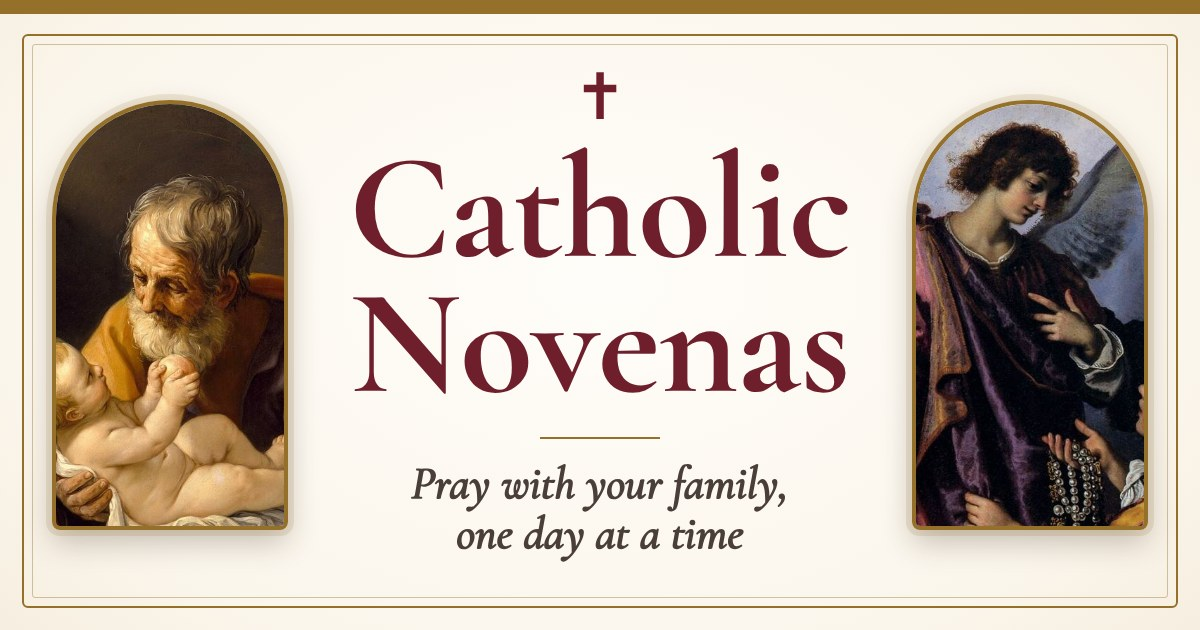
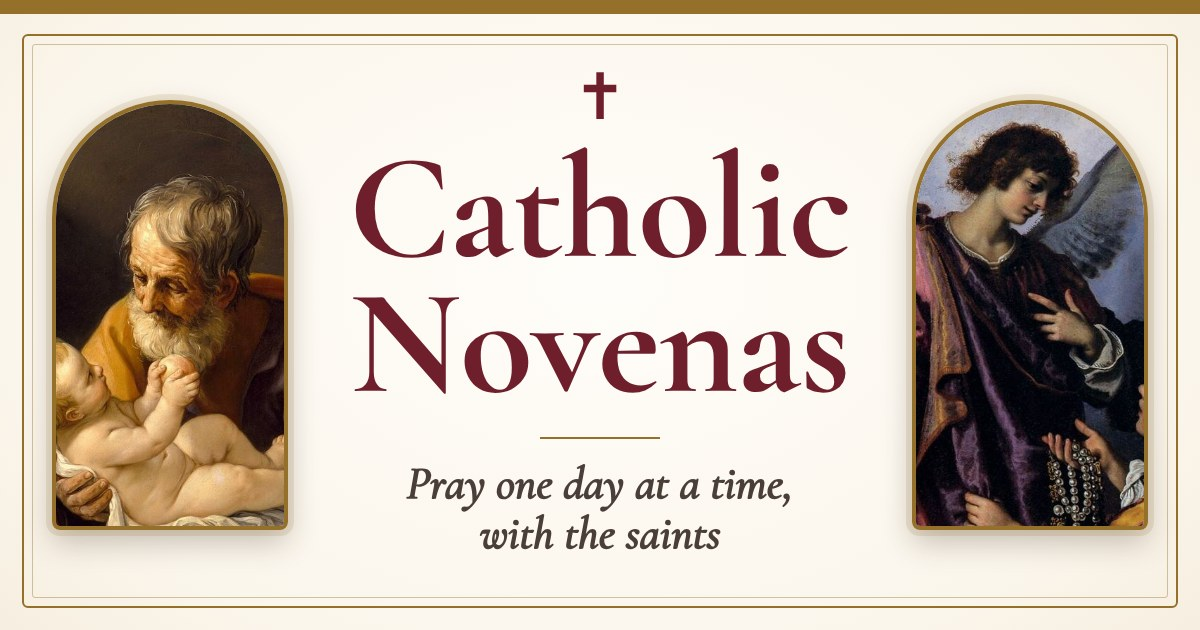
General wording: no family framing in site copy and link previews; link descriptions under 125 characters

Changed region(s): [[0.3392, 0.7238, 0.6783, 0.8746]]

diff --git a/site/index.html b/site/index.html
@@ -3,18 +3,18 @@
 <head>
 <meta charset="utf-8">
 <meta name="viewport" content="width=device-width, initial-scale=1, viewport-fit=cover">
-<title>Catholic Novenas: 9-day prayers for family and friends</title>
+<title>Catholic Novenas: 9 days of prayer, one day at a time</title>
 <meta name="apple-mobile-web-app-title" content="Catholic Novenas">
-<meta name="description" content="9-day Catholic novenas to pray with your family, one day at a time, with Scripture, reflections and the prayers of the saints.">
+<meta name="description" content="9-day Catholic novenas with Scripture, reflections and the prayers of the saints, on your phone or on paper.">
 <meta name="theme-color" content="#FFFDF9" media="(prefers-color-scheme: light)">
 <meta name="theme-color" content="#0E1524" media="(prefers-color-scheme: dark)">
 <meta property="og:type" content="website">
 <meta property="og:site_name" content="Catholic Novenas">
 <meta property="og:url" content="https://catholic-novenas.netlify.app/">
-<meta property="og:title" content="Catholic Novenas: 9-day prayers for family and friends">
-<meta property="og:description" content="9-day Catholic novenas to pray with your family, one day at a time, on your phone or on paper, with Scripture, reflections and the prayers of the saints.">
-<meta property="og:image" content="https://catholic-novenas.netlify.app/og.jpg?v=0d8bbcfd">
-<meta property="og:image:alt" content="Catholic Novenas: pray with your family, one day at a time">
+<meta property="og:title" content="Catholic Novenas: 9 days of prayer, one day at a time">
+<meta property="og:description" content="9-day Catholic novenas with Scripture, reflections and the prayers of the saints, on your phone or on paper.">
+<meta property="og:image" content="https://catholic-novenas.netlify.app/og.jpg?v=a8577d62">
+<meta property="og:image:alt" content="Catholic Novenas: pray one day at a time, with the saints">
 <meta property="og:image:type" content="image/jpeg">
 <meta property="og:image:width" content="1200"><meta property="og:image:height" content="630">
 <meta name="twitter:card" content="summary_large_image">
@@ -136,7 +136,7 @@ footer.wrap{text-align:center;padding-top:28px;padding-bottom:calc(88px + env(sa
 </style>
 </head>
 <body>
-<svg xmlns="http://www.w3.org/2000/svg" style="display:none" aria-hidden="true"><symbol id="i-cross" viewBox="0 0 256 256"><path d="M200,72H160V32a16,16,0,0,0-16-16H112A16,16,0,0,0,96,32V72H56A16,16,0,0,0,40,88v32a16,16,0,0,0,16,16H96v88a16,16,0,0,0,16,16h32a16,16,0,0,0,16-16V136h40a16,16,0,0,0,16-16V88A16,16,0,0,0,200,72Zm0,48H152a8,8,0,0,0-8,8v96H112V128a8,8,0,0,0-8-8H56V88h48a8,8,0,0,0,8-8V32h32V80a8,8,0,0,0,8,8h48Z"/></symbol><symbol id="i-sun" viewBox="0 0 256 256"><path d="M120,40V16a8,8,0,0,1,16,0V40a8,8,0,0,1-16,0Zm72,88a64,64,0,1,1-64-64A64.07,64.07,0,0,1,192,128Zm-16,0a48,48,0,1,0-48,48A48.05,48.05,0,0,0,176,128ZM58.34,69.66A8,8,0,0,0,69.66,58.34l-16-16A8,8,0,0,0,42.34,53.66Zm0,116.68-16,16a8,8,0,0,0,11.32,11.32l16-16a8,8,0,0,0-11.32-11.32ZM192,72a8,8,0,0,0,5.66-2.34l16-16a8,8,0,0,0-11.32-11.32l-16,16A8,8,0,0,0,192,72Zm5.66,114.34a8,8,0,0,0-11.32,11.32l16,16a8,8,0,0,0,11.32-11.32ZM48,128a8,8,0,0,0-8-8H16a8,8,0,0,0,0,16H40A8,8,0,0,0,48,128Zm80,80a8,8,0,0,0-8,8v24a8,8,0,0,0,16,0V216A8,8,0,0,0,128,208Zm112-88H216a8,8,0,0,0,0,16h24a8,8,0,0,0,0-16Z"/></symbol><symbol id="i-moon" viewBox="0 0 256 256"><path d="M233.54,142.23a8,8,0,0,0-8-2,88.08,88.08,0,0,1-109.8-109.8,8,8,0,0,0-10-10,104.84,104.84,0,0,0-52.91,37A104,104,0,0,0,136,224a103.09,103.09,0,0,0,62.52-20.88,104.84,104.84,0,0,0,37-52.91A8,8,0,0,0,233.54,142.23ZM188.9,190.34A88,88,0,0,1,65.66,67.11a89,89,0,0,1,31.4-26A106,106,0,0,0,96,56,104.11,104.11,0,0,0,200,160a106,106,0,0,0,14.92-1.06A89,89,0,0,1,188.9,190.34Z"/></symbol><symbol id="i-text-aa" viewBox="0 0 256 256"><path d="M87.24,52.59a8,8,0,0,0-14.48,0l-64,136a8,8,0,1,0,14.48,6.81L39.9,160h80.2l16.66,35.4a8,8,0,1,0,14.48-6.81ZM47.43,144,80,74.79,112.57,144ZM200,96c-12.76,0-22.73,3.47-29.63,10.32a8,8,0,0,0,11.26,11.36c3.8-3.77,10-5.68,18.37-5.68,13.23,0,24,9,24,20v3.22A42.76,42.76,0,0,0,200,128c-22.06,0-40,16.15-40,36s17.94,36,40,36a42.73,42.73,0,0,0,24-7.25,8,8,0,0,0,16-.75V132C240,112.15,222.06,96,200,96Zm0,88c-13.23,0-24-9-24-20s10.77-20,24-20,24,9,24,20S213.23,184,200,184Z"/></symbol><symbol id="i-arrow-right" viewBox="0 0 256 256"><path d="M221.66,133.66l-72,72a8,8,0,0,1-11.32-11.32L196.69,136H40a8,8,0,0,1,0-16H196.69L138.34,61.66a8,8,0,0,1,11.32-11.32l72,72A8,8,0,0,1,221.66,133.66Z"/></symbol><symbol id="i-hands-praying" viewBox="0 0 256 256"><path d="M235.32,180l-36.24-36.25L162.62,23.46A21.76,21.76,0,0,0,128,12.93,21.76,21.76,0,0,0,93.38,23.46L56.92,143.76,20.68,180a16,16,0,0,0,0,22.62l32.69,32.69a16,16,0,0,0,22.63,0L124.28,187a40.68,40.68,0,0,0,3.72-4.29,40.68,40.68,0,0,0,3.72,4.29L180,235.32a16,16,0,0,0,22.63,0l32.69-32.69A16,16,0,0,0,235.32,180ZM64.68,224,32,191.32l12.69-12.69,32.69,32.69ZM120,158.75a23.85,23.85,0,0,1-7,17L88.68,200,56,167.32l13.65-13.66a8,8,0,0,0,2-3.34l37-122.22A5.78,5.78,0,0,1,120,29.78Zm23,17a23.85,23.85,0,0,1-7-17v-129a5.78,5.78,0,0,1,11.31-1.68l37,122.22a8,8,0,0,0,2,3.34l14.49,14.49-33.4,32ZM191.32,224l-12.56-12.57,33.39-32L224,191.32Z"/></symbol><symbol id="i-calendar-check" viewBox="0 0 256 256"><path d="M208,32H184V24a8,8,0,0,0-16,0v8H88V24a8,8,0,0,0-16,0v8H48A16,16,0,0,0,32,48V208a16,16,0,0,0,16,16H208a16,16,0,0,0,16-16V48A16,16,0,0,0,208,32ZM72,48v8a8,8,0,0,0,16,0V48h80v8a8,8,0,0,0,16,0V48h24V80H48V48ZM208,208H48V96H208V208Zm-38.34-85.66a8,8,0,0,1,0,11.32l-48,48a8,8,0,0,1-11.32,0l-24-24a8,8,0,0,1,11.32-11.32L116,164.69l42.34-42.35A8,8,0,0,1,169.66,122.34Z"/></symbol><symbol id="i-users" viewBox="0 0 256 256"><path d="M117.25,157.92a60,60,0,1,0-66.5,0A95.83,95.83,0,0,0,3.53,195.63a8,8,0,1,0,13.4,8.74,80,80,0,0,1,134.14,0,8,8,0,0,0,13.4-8.74A95.83,95.83,0,0,0,117.25,157.92ZM40,108a44,44,0,1,1,44,44A44.05,44.05,0,0,1,40,108Zm210.14,98.7a8,8,0,0,1-11.07-2.33A79.83,79.83,0,0,0,172,168a8,8,0,0,1,0-16,44,44,0,1,0-16.34-84.87,8,8,0,1,1-5.94-14.85,60,60,0,0,1,55.53,105.64,95.83,95.83,0,0,1,47.22,37.71A8,8,0,0,1,250.14,206.7Z"/></symbol><symbol id="i-hand-coins" viewBox="0 0 256 256"><path d="M230.33,141.06a24.43,24.43,0,0,0-21.24-4.23l-41.84,9.62A28,28,0,0,0,140,112H89.94a31.82,31.82,0,0,0-22.63,9.37L44.69,144H16A16,16,0,0,0,0,160v40a16,16,0,0,0,16,16H120a7.93,7.93,0,0,0,1.94-.24l64-16a6.94,6.94,0,0,0,1.19-.4L226,182.82l.44-.2a24.6,24.6,0,0,0,3.93-41.56ZM16,160H40v40H16Zm203.43,8.21-38,16.18L119,200H56V155.31l22.63-22.62A15.86,15.86,0,0,1,89.94,128H140a12,12,0,0,1,0,24H112a8,8,0,0,0,0,16h32a8.32,8.32,0,0,0,1.79-.2l67-15.41.31-.08a8.6,8.6,0,0,1,6.3,15.9ZM164,96a36,36,0,0,0,5.9-.48,36,36,0,1,0,28.22-47A36,36,0,1,0,164,96Zm60-12a20,20,0,1,1-20-20A20,20,0,0,1,224,84ZM164,40a20,20,0,0,1,19.25,14.61,36,36,0,0,0-15,24.93A20.42,20.42,0,0,1,164,80a20,20,0,0,1,0-40Z"/></symbol><symbol id="i-heartbeat" viewBox="0 0 256 256"><path d="M72,144H32a8,8,0,0,1,0-16H67.72l13.62-20.44a8,8,0,0,1,13.32,0l25.34,38,9.34-14A8,8,0,0,1,136,128h24a8,8,0,0,1,0,16H140.28l-13.62,20.44a8,8,0,0,1-13.32,0L88,126.42l-9.34,14A8,8,0,0,1,72,144ZM178,40c-20.65,0-38.73,8.88-50,23.89C116.73,48.88,98.65,40,78,40a62.07,62.07,0,0,0-62,62c0,.75,0,1.5,0,2.25a8,8,0,1,0,16-.5c0-.58,0-1.17,0-1.75A46.06,46.06,0,0,1,78,56c19.45,0,35.78,10.36,42.6,27a8,8,0,0,0,14.8,0c6.82-16.67,23.15-27,42.6-27a46.06,46.06,0,0,1,46,46c0,53.61-77.76,102.15-96,112.8-10.83-6.31-42.63-26-66.68-52.21a8,8,0,1,0-11.8,10.82c31.17,34,72.93,56.68,74.69,57.63a8,8,0,0,0,7.58,0C136.21,228.66,240,172,240,102A62.07,62.07,0,0,0,178,40Z"/></symbol></svg>
+<svg xmlns="http://www.w3.org/2000/svg" style="display:none" aria-hidden="true"><symbol id="i-cross" viewBox="0 0 256 256"><path d="M200,72H160V32a16,16,0,0,0-16-16H112A16,16,0,0,0,96,32V72H56A16,16,0,0,0,40,88v32a16,16,0,0,0,16,16H96v88a16,16,0,0,0,16,16h32a16,16,0,0,0,16-16V136h40a16,16,0,0,0,16-16V88A16,16,0,0,0,200,72Zm0,48H152a8,8,0,0,0-8,8v96H112V128a8,8,0,0,0-8-8H56V88h48a8,8,0,0,0,8-8V32h32V80a8,8,0,0,0,8,8h48Z"/></symbol><symbol id="i-sun" viewBox="0 0 256 256"><path d="M120,40V16a8,8,0,0,1,16,0V40a8,8,0,0,1-16,0Zm72,88a64,64,0,1,1-64-64A64.07,64.07,0,0,1,192,128Zm-16,0a48,48,0,1,0-48,48A48.05,48.05,0,0,0,176,128ZM58.34,69.66A8,8,0,0,0,69.66,58.34l-16-16A8,8,0,0,0,42.34,53.66Zm0,116.68-16,16a8,8,0,0,0,11.32,11.32l16-16a8,8,0,0,0-11.32-11.32ZM192,72a8,8,0,0,0,5.66-2.34l16-16a8,8,0,0,0-11.32-11.32l-16,16A8,8,0,0,0,192,72Zm5.66,114.34a8,8,0,0,0-11.32,11.32l16,16a8,8,0,0,0,11.32-11.32ZM48,128a8,8,0,0,0-8-8H16a8,8,0,0,0,0,16H40A8,8,0,0,0,48,128Zm80,80a8,8,0,0,0-8,8v24a8,8,0,0,0,16,0V216A8,8,0,0,0,128,208Zm112-88H216a8,8,0,0,0,0,16h24a8,8,0,0,0,0-16Z"/></symbol><symbol id="i-moon" viewBox="0 0 256 256"><path d="M233.54,142.23a8,8,0,0,0-8-2,88.08,88.08,0,0,1-109.8-109.8,8,8,0,0,0-10-10,104.84,104.84,0,0,0-52.91,37A104,104,0,0,0,136,224a103.09,103.09,0,0,0,62.52-20.88,104.84,104.84,0,0,0,37-52.91A8,8,0,0,0,233.54,142.23ZM188.9,190.34A88,88,0,0,1,65.66,67.11a89,89,0,0,1,31.4-26A106,106,0,0,0,96,56,104.11,104.11,0,0,0,200,160a106,106,0,0,0,14.92-1.06A89,89,0,0,1,188.9,190.34Z"/></symbol><symbol id="i-text-aa" viewBox="0 0 256 256"><path d="M87.24,52.59a8,8,0,0,0-14.48,0l-64,136a8,8,0,1,0,14.48,6.81L39.9,160h80.2l16.66,35.4a8,8,0,1,0,14.48-6.81ZM47.43,144,80,74.79,112.57,144ZM200,96c-12.76,0-22.73,3.47-29.63,10.32a8,8,0,0,0,11.26,11.36c3.8-3.77,10-5.68,18.37-5.68,13.23,0,24,9,24,20v3.22A42.76,42.76,0,0,0,200,128c-22.06,0-40,16.15-40,36s17.94,36,40,36a42.73,42.73,0,0,0,24-7.25,8,8,0,0,0,16-.75V132C240,112.15,222.06,96,200,96Zm0,88c-13.23,0-24-9-24-20s10.77-20,24-20,24,9,24,20S213.23,184,200,184Z"/></symbol><symbol id="i-arrow-right" viewBox="0 0 256 256"><path d="M221.66,133.66l-72,72a8,8,0,0,1-11.32-11.32L196.69,136H40a8,8,0,0,1,0-16H196.69L138.34,61.66a8,8,0,0,1,11.32-11.32l72,72A8,8,0,0,1,221.66,133.66Z"/></symbol><symbol id="i-hands-praying" viewBox="0 0 256 256"><path d="M235.32,180l-36.24-36.25L162.62,23.46A21.76,21.76,0,0,0,128,12.93,21.76,21.76,0,0,0,93.38,23.46L56.92,143.76,20.68,180a16,16,0,0,0,0,22.62l32.69,32.69a16,16,0,0,0,22.63,0L124.28,187a40.68,40.68,0,0,0,3.72-4.29,40.68,40.68,0,0,0,3.72,4.29L180,235.32a16,16,0,0,0,22.63,0l32.69-32.69A16,16,0,0,0,235.32,180ZM64.68,224,32,191.32l12.69-12.69,32.69,32.69ZM120,158.75a23.85,23.85,0,0,1-7,17L88.68,200,56,167.32l13.65-13.66a8,8,0,0,0,2-3.34l37-122.22A5.78,5.78,0,0,1,120,29.78Zm23,17a23.85,23.85,0,0,1-7-17v-129a5.78,5.78,0,0,1,11.31-1.68l37,122.22a8,8,0,0,0,2,3.34l14.49,14.49-33.4,32ZM191.32,224l-12.56-12.57,33.39-32L224,191.32Z"/></symbol><symbol id="i-calendar-check" viewBox="0 0 256 256"><path d="M208,32H184V24a8,8,0,0,0-16,0v8H88V24a8,8,0,0,0-16,0v8H48A16,16,0,0,0,32,48V208a16,16,0,0,0,16,16H208a16,16,0,0,0,16-16V48A16,16,0,0,0,208,32ZM72,48v8a8,8,0,0,0,16,0V48h80v8a8,8,0,0,0,16,0V48h24V80H48V48ZM208,208H48V96H208V208Zm-38.34-85.66a8,8,0,0,1,0,11.32l-48,48a8,8,0,0,1-11.32,0l-24-24a8,8,0,0,1,11.32-11.32L116,164.69l42.34-42.35A8,8,0,0,1,169.66,122.34Z"/></symbol><symbol id="i-house-line" viewBox="0 0 256 256"><path d="M240,208H224V136l2.34,2.34A8,8,0,0,0,237.66,127L139.31,28.68a16,16,0,0,0-22.62,0L18.34,127a8,8,0,0,0,11.32,11.31L32,136v72H16a8,8,0,0,0,0,16H240a8,8,0,0,0,0-16ZM48,120l80-80,80,80v88H160V152a8,8,0,0,0-8-8H104a8,8,0,0,0-8,8v56H48Zm96,88H112V160h32Z"/></symbol><symbol id="i-hand-coins" viewBox="0 0 256 256"><path d="M230.33,141.06a24.43,24.43,0,0,0-21.24-4.23l-41.84,9.62A28,28,0,0,0,140,112H89.94a31.82,31.82,0,0,0-22.63,9.37L44.69,144H16A16,16,0,0,0,0,160v40a16,16,0,0,0,16,16H120a7.93,7.93,0,0,0,1.94-.24l64-16a6.94,6.94,0,0,0,1.19-.4L226,182.82l.44-.2a24.6,24.6,0,0,0,3.93-41.56ZM16,160H40v40H16Zm203.43,8.21-38,16.18L119,200H56V155.31l22.63-22.62A15.86,15.86,0,0,1,89.94,128H140a12,12,0,0,1,0,24H112a8,8,0,0,0,0,16h32a8.32,8.32,0,0,0,1.79-.2l67-15.41.31-.08a8.6,8.6,0,0,1,6.3,15.9ZM164,96a36,36,0,0,0,5.9-.48,36,36,0,1,0,28.22-47A36,36,0,1,0,164,96Zm60-12a20,20,0,1,1-20-20A20,20,0,0,1,224,84ZM164,40a20,20,0,0,1,19.25,14.61,36,36,0,0,0-15,24.93A20.42,20.42,0,0,1,164,80a20,20,0,0,1,0-40Z"/></symbol><symbol id="i-heartbeat" viewBox="0 0 256 256"><path d="M72,144H32a8,8,0,0,1,0-16H67.72l13.62-20.44a8,8,0,0,1,13.32,0l25.34,38,9.34-14A8,8,0,0,1,136,128h24a8,8,0,0,1,0,16H140.28l-13.62,20.44a8,8,0,0,1-13.32,0L88,126.42l-9.34,14A8,8,0,0,1,72,144ZM178,40c-20.65,0-38.73,8.88-50,23.89C116.73,48.88,98.65,40,78,40a62.07,62.07,0,0,0-62,62c0,.75,0,1.5,0,2.25a8,8,0,1,0,16-.5c0-.58,0-1.17,0-1.75A46.06,46.06,0,0,1,78,56c19.45,0,35.78,10.36,42.6,27a8,8,0,0,0,14.8,0c6.82-16.67,23.15-27,42.6-27a46.06,46.06,0,0,1,46,46c0,53.61-77.76,102.15-96,112.8-10.83-6.31-42.63-26-66.68-52.21a8,8,0,1,0-11.8,10.82c31.17,34,72.93,56.68,74.69,57.63a8,8,0,0,0,7.58,0C136.21,228.66,240,172,240,102A62.07,62.07,0,0,0,178,40Z"/></symbol></svg>
 <header class="bar">
   <div class="wrap">
     <svg class="i mark" aria-hidden="true" focusable="false"><use href="#i-cross"/></svg>
@@ -157,12 +157,12 @@ footer.wrap{text-align:center;padding-top:28px;padding-bottom:calc(88px + env(sa
     <div class="cross" aria-hidden="true"><svg class="i" aria-hidden="true" focusable="false"><use href="#i-cross"/></svg></div>
     <p class="kicker">9 days of prayer</p>
     <h1>Catholic Novenas</h1>
-    <p class="lede">Pray with your family, one day at a time, with the saints beside you.</p>
+    <p class="lede">Pray one day at a time, with the saints beside you.</p>
   </div>
 
   <h2 class="h2" id="listHead">Choose a novena</h2>
   <ul class="cards" aria-labelledby="listHead">
-<li class="card" data-key="novena-relief-from-debt"><a href="relief-from-debt/index.html" aria-labelledby="t-relief-from-debt p-relief-from-debt"><div class="top"><span class="ic" aria-hidden="true"><svg class="i"><use href="#i-hand-coins"/></svg></span><div class="faces" aria-hidden="true"><img src="relief-from-debt/img/joseph_face.jpg" alt="" width="36" height="36"><img src="relief-from-debt/img/rita_face.jpg" alt="" width="36" height="36"><img src="relief-from-debt/img/jude_face.jpg" alt="" width="36" height="36"></div></div><h3 id="t-relief-from-debt">Relief from Debt and Financial Hardship</h3><p class="through">through <span class="nb">St. Joseph</span>, <span class="nb">St. Rita of Cascia</span> &amp;&nbsp;<span class="nb">St. Jude Thaddeus</span></p><p class="blurb">For a family carrying debt or money worries: 9&nbsp;days of trust, honest work and wise stewardship.</p><div class="foot"><p class="prog" id="p-relief-from-debt"></p><span class="go" aria-hidden="true"><span>Pray</span><svg class="i"><use href="#i-arrow-right"/></svg></span></div></a></li>
+<li class="card" data-key="novena-relief-from-debt"><a href="relief-from-debt/index.html" aria-labelledby="t-relief-from-debt p-relief-from-debt"><div class="top"><span class="ic" aria-hidden="true"><svg class="i"><use href="#i-hand-coins"/></svg></span><div class="faces" aria-hidden="true"><img src="relief-from-debt/img/joseph_face.jpg" alt="" width="36" height="36"><img src="relief-from-debt/img/rita_face.jpg" alt="" width="36" height="36"><img src="relief-from-debt/img/jude_face.jpg" alt="" width="36" height="36"></div></div><h3 id="t-relief-from-debt">Relief from Debt and Financial Hardship</h3><p class="through">through <span class="nb">St. Joseph</span>, <span class="nb">St. Rita of Cascia</span> &amp;&nbsp;<span class="nb">St. Jude Thaddeus</span></p><p class="blurb">For anyone carrying debt or money worries: 9&nbsp;days of trust, honest work and wise stewardship.</p><div class="foot"><p class="prog" id="p-relief-from-debt"></p><span class="go" aria-hidden="true"><span>Pray</span><svg class="i"><use href="#i-arrow-right"/></svg></span></div></a></li>
 <li class="card" data-key="novena-healing"><a href="healing/index.html" aria-labelledby="t-healing p-healing"><div class="top"><span class="ic" aria-hidden="true"><svg class="i"><use href="#i-heartbeat"/></svg></span><div class="faces" aria-hidden="true"><img src="healing/img/raphael_face.jpg" alt="" width="36" height="36"><img src="healing/img/camillus_face.jpg" alt="" width="36" height="36"><img src="healing/img/bernadette_face.jpg" alt="" width="36" height="36"></div></div><h3 id="t-healing">Healing of the Sick</h3><p class="through">through <span class="nb">St. Raphael</span>, <span class="nb">St. Camillus de Lellis</span> &amp;&nbsp;<span class="nb">St. Bernadette</span></p><p class="blurb">For a friend or loved one who is ill: 9&nbsp;days asking for healing, strength for caregivers and peace in God’s will.</p><div class="foot"><p class="prog" id="p-healing"></p><span class="go" aria-hidden="true"><span>Pray</span><svg class="i"><use href="#i-arrow-right"/></svg></span></div></a></li>
   </ul>
 
@@ -170,7 +170,7 @@ footer.wrap{text-align:center;padding-top:28px;padding-bottom:calc(88px + env(sa
   <ul class="how">
     <li><span class="ic" aria-hidden="true"><svg class="i"><use href="#i-calendar-check"/></svg></span><div><h3>9&nbsp;days, 1&nbsp;intention</h3><p>A novena is 9&nbsp;days of prayer for a single intention, after the Apostles and Mary, who prayed together before Pentecost (Acts 1:14).</p></div></li>
     <li><span class="ic" aria-hidden="true"><svg class="i"><use href="#i-hands-praying"/></svg></span><div><h3>About 10&nbsp;minutes a day</h3><p>Each day has an opening prayer, a Scripture passage and reflection, the day’s prayer, and the closing prayers.</p></div></li>
-    <li><span class="ic" aria-hidden="true"><svg class="i"><use href="#i-users"/></svg></span><div><h3>Together or alone</h3><p>Someone leads and everyone responds. Your progress, start date and intention stay only on your device.</p></div></li>
+    <li><span class="ic" aria-hidden="true"><svg class="i"><use href="#i-house-line"/></svg></span><div><h3>Stays on your device</h3><p>Your progress, start date and intention are saved only on your phone or computer, never uploaded.</p></div></li>
   </ul>
 
   <div class="close">

diff --git a/templates/library.html b/templates/library.html
@@ -3,18 +3,18 @@
 <head>
 <meta charset="utf-8">
 <meta name="viewport" content="width=device-width, initial-scale=1, viewport-fit=cover">
-<title>Catholic Novenas: 9-day prayers for family and friends</title>
+<title>Catholic Novenas: 9 days of prayer, one day at a time</title>
 <meta name="apple-mobile-web-app-title" content="Catholic Novenas">
-<meta name="description" content="9-day Catholic novenas to pray with your family, one day at a time, with Scripture, reflections and the prayers of the saints.">
+<meta name="description" content="9-day Catholic novenas with Scripture, reflections and the prayers of the saints, on your phone or on paper.">
 <meta name="theme-color" content="#FFFDF9" media="(prefers-color-scheme: light)">
 <meta name="theme-color" content="#0E1524" media="(prefers-color-scheme: dark)">
 <meta property="og:type" content="website">
 <meta property="og:site_name" content="Catholic Novenas">
 <meta property="og:url" content="https://catholic-novenas.netlify.app/">
-<meta property="og:title" content="Catholic Novenas: 9-day prayers for family and friends">
-<meta property="og:description" content="9-day Catholic novenas to pray with your family, one day at a time, on your phone or on paper, with Scripture, reflections and the prayers of the saints.">
+<meta property="og:title" content="Catholic Novenas: 9 days of prayer, one day at a time">
+<meta property="og:description" content="9-day Catholic novenas with Scripture, reflections and the prayers of the saints, on your phone or on paper.">
 <meta property="og:image" content="https://catholic-novenas.netlify.app/og.jpg?v={{OG_VER}}">
-<meta property="og:image:alt" content="Catholic Novenas: pray with your family, one day at a time">
+<meta property="og:image:alt" content="Catholic Novenas: pray one day at a time, with the saints">
 <meta property="og:image:type" content="image/jpeg">
 <meta property="og:image:width" content="1200"><meta property="og:image:height" content="630">
 <meta name="twitter:card" content="summary_large_image">
@@ -155,7 +155,7 @@ footer.wrap{text-align:center;padding-top:28px;padding-bottom:calc(88px + env(sa
     <div class="cross" aria-hidden="true"><svg class="i" aria-hidden="true" focusable="false"><use href="#i-cross"/></svg></div>
     <p class="kicker">9 days of prayer</p>
     <h1>Catholic Novenas</h1>
-    <p class="lede">Pray with your family, one day at a time, with the saints beside you.</p>
+    <p class="lede">Pray one day at a time, with the saints beside you.</p>
   </div>
 
   <h2 class="h2" id="listHead">Choose a novena</h2>
@@ -167,7 +167,7 @@ footer.wrap{text-align:center;padding-top:28px;padding-bottom:calc(88px + env(sa
   <ul class="how">
     <li><span class="ic" aria-hidden="true"><svg class="i"><use href="#i-calendar-check"/></svg></span><div><h3>9&nbsp;days, 1&nbsp;intention</h3><p>A novena is 9&nbsp;days of prayer for a single intention, after the Apostles and Mary, who prayed together before Pentecost (Acts 1:14).</p></div></li>
     <li><span class="ic" aria-hidden="true"><svg class="i"><use href="#i-hands-praying"/></svg></span><div><h3>About 10&nbsp;minutes a day</h3><p>Each day has an opening prayer, a Scripture passage and reflection, the day’s prayer, and the closing prayers.</p></div></li>
-    <li><span class="ic" aria-hidden="true"><svg class="i"><use href="#i-users"/></svg></span><div><h3>Together or alone</h3><p>Someone leads and everyone responds. Your progress, start date and intention stay only on your device.</p></div></li>
+    <li><span class="ic" aria-hidden="true"><svg class="i"><use href="#i-house-line"/></svg></span><div><h3>Stays on your device</h3><p>Your progress, start date and intention are saved only on your phone or computer, never uploaded.</p></div></li>
   </ul>
 
   <div class="close">

diff --git a/site/healing/index.html b/site/healing/index.html
@@ -11,7 +11,7 @@
 <meta property="og:site_name" content="Catholic Novenas">
 <meta property="og:url" content="https://catholic-novenas.netlify.app/healing/">
 <meta property="og:title" content="Novena for the Healing of the Sick | Catholic Novenas">
-<meta property="og:description" content="A 9-day Catholic novena for the healing of the sick, through Our Lady of Lourdes, St. Raphael, St. Camillus de Lellis and St. Bernadette.">
+<meta property="og:description" content="9 days of prayer for the healing of the sick, through Our Lady of Lourdes, St. Raphael, St. Camillus and St. Bernadette.">
 <meta property="og:image" content="https://catholic-novenas.netlify.app/healing/og.jpg?v=f306137c">
 <meta property="og:image:alt" content="Novena for Healing: 9 days of hope in Christ who heals">
 <meta property="og:image:type" content="image/jpeg">
@@ -463,7 +463,7 @@ footer{padding:10px 0 44px;text-align:center;font-size:13px;color:var(--muted)}
       <li>End with an Our Father, a Hail Mary and a Glory Be, and the Sign of the Cross. Then take <strong>today’s step</strong> with you.</li>
     </ol>
     <div class="tips" style="margin-top:18px">
-      <div class="tip"><h3>As a family</h3><p>One person leads each part; all respond <span class="resp">pray for us</span> and <span class="resp">Amen</span>, and say the closing prayers together. The prayers say “we” for the family; if you pray alone, say “I”.</p></div>
+      <div class="tip"><h3>Praying with others</h3><p>One person leads each part; all respond <span class="resp">pray for us</span> and <span class="resp">Amen</span>, and say the closing prayers together. The prayers say “we”; if you pray alone, say “I”.</p></div>
       <div class="tip"><h3>Alongside prayer</h3><p>If you can, go to Confession and attend Mass during these 9 days. Ask a priest about the Anointing of the Sick, which is for anyone seriously ill or facing major surgery, not only the dying. Pair prayer with good care: follow medical advice, offer practical help (Day&nbsp;6), and be wary of anyone who promises a sure cure. At “N.”, say the sick person’s name; if you are praying for yourself, say “me”.</p></div>
     </div>
   </section>

diff --git a/site/relief-from-debt/index.html b/site/relief-from-debt/index.html
@@ -11,7 +11,7 @@
 <meta property="og:site_name" content="Catholic Novenas">
 <meta property="og:url" content="https://catholic-novenas.netlify.app/relief-from-debt/">
 <meta property="og:title" content="Novena for Relief from Debt and Financial Hardship">
-<meta property="og:description" content="A 9-day Catholic novena for relief from debt and financial hardship, through St. Joseph, St. Rita of Cascia and St. Jude Thaddeus.">
+<meta property="og:description" content="9 days of prayer for relief from debt and financial hardship, through St. Joseph, St. Rita and St. Jude.">
 <meta property="og:image" content="https://catholic-novenas.netlify.app/relief-from-debt/og.jpg?v=5e610004">
 <meta property="og:image:alt" content="Novena for Relief from Debt: 9 days of trust in God’s providence">
 <meta property="og:image:type" content="image/jpeg">
@@ -463,7 +463,7 @@ footer{padding:10px 0 44px;text-align:center;font-size:13px;color:var(--muted)}
       <li>End with an Our Father, a Hail Mary and a Glory Be, and the Sign of the Cross. Then take <strong>today’s step</strong> with you.</li>
     </ol>
     <div class="tips" style="margin-top:18px">
-      <div class="tip"><h3>As a family</h3><p>One person leads each part; all respond <span class="resp">pray for us</span> and <span class="resp">Amen</span>, and say the closing prayers together. The prayers say “we” for the family; if you pray alone, say “I”.</p></div>
+      <div class="tip"><h3>Praying with others</h3><p>One person leads each part; all respond <span class="resp">pray for us</span> and <span class="resp">Amen</span>, and say the closing prayers together. The prayers say “we”; if you pray alone, say “I”.</p></div>
       <div class="tip"><h3>Alongside prayer</h3><p>If you can, go to Confession and attend Mass during these 9 days, and pair prayer with prudent action: an honest budget, a talk with creditors, wise counsel (Day&nbsp;4).</p></div>
     </div>
   </section>

diff --git a/site/sw.js b/site/sw.js
@@ -1,7 +1,7 @@
 /* Catholic Novenas service worker: keeps the whole library on this device so it opens without signal.
    Pages: network first (corrections arrive right away), the saved copy when offline or after 4000 ms.
    Everything else (images, fonts, icons): saved once and reused. Built by tools/build.py; do not edit site/sw.js. */
-var VERSION = "8226077a734a";
+var VERSION = "7fc8a72b84f6";
 var CACHE = "novenas-" + VERSION;
 var FILES = ["apple-touch-icon.png", "favicon.svg", "icon-192.png", "icon-512.png", "index.html", "./", "manifest.webmanifest", "fonts/cormorant-garamond-italic.woff2", "fonts/cormorant-garamond.woff2", "fonts/eb-garamond-italic.woff2", "fonts/eb-garamond.woff2", "fonts/fonts.css", "healing/index.html", "healing/", "healing/img/bernadette.jpg", "healing/img/bernadette_face.jpg", "healing/img/camillus.jpg", "healing/img/camillus_face.jpg", "healing/img/mary_face.jpg", "healing/img/raphael.jpg", "healing/img/raphael_face.jpg", "relief-from-debt/index.html", "relief-from-debt/", "relief-from-debt/img/joseph.jpg", "relief-from-debt/img/joseph_face.jpg", "relief-from-debt/img/jude.jpg", "relief-from-debt/img/jude_face.jpg", "relief-from-debt/img/mary_face.jpg", "relief-from-debt/img/rita.jpg", "relief-from-debt/img/rita_face.jpg"];
 var TIMEOUT = 4000;

diff --git a/tools/build.py b/tools/build.py
@@ -150,7 +150,7 @@ def page(n, mode):
             '<meta property="og:site_name" content="Catholic Novenas">',
             '<meta property="og:url" content="%s">' % url,
             '<meta property="og:title" content="%s">' % esc(og_title(n)),
-            '<meta property="og:description" content="%s">' % esc(n["description"]),
+            '<meta property="og:description" content="%s">' % esc(n.get("ogDescription") or n["description"]),
             '<meta property="og:image" content="%sog.jpg?v=%s">' % (url, og_ver(os.path.join(ROOT, "novenas", slug, "og.jpg"))),
             '<meta property="og:image:alt" content="%s">' % esc(n["barTitle"] + ": " + n["kicker"]),
             '<meta property="og:image:type" content="image/jpeg">',
@@ -235,7 +235,7 @@ def library(novenas):
     t = t.replace("{{CARDS}}", "\n".join(cards))
     t = t.replace("{{OG_VER}}", og_ver(os.path.join(ROOT, "site", "og.jpg")))
     t = t.replace("{{FONTS}}", local_fonts("")).replace("{{SW}}", sw_register(""))
-    t = t.replace("{{SPRITE}}", sprite(["cross", "sun", "moon", "text-aa", "arrow-right", "hands-praying", "calendar-check", "users"] + icons))
+    t = t.replace("{{SPRITE}}", sprite(["cross", "sun", "moon", "text-aa", "arrow-right", "hands-praying", "calendar-check", "house-line"] + icons))
     left = re.findall(r"\{\{[A-Z0-9_]+\}\}", t)
     assert not left, left
     return t

diff --git a/tools/og.py b/tools/og.py
@@ -114,7 +114,7 @@ def main():
     if not only:
         left = lib.get("joseph") or next(iter(lib.values()))
         right = lib.get("raphael") or list(lib.values())[-1]
-        pairs.append((card_html("", "Catholic<br>Novenas", "Pray with your family, one day at a time", left, right),
+        pairs.append((card_html("", "Catholic<br>Novenas", "Pray one day at a time,<br>with the saints", left, right),
                       os.path.join(ROOT, "site", "og.jpg")))
     asyncio.run(render(pairs))
 

diff --git a/skill/SKILL.md b/skill/SKILL.md
@@ -60,6 +60,7 @@ Copy an example's shape. Field rules:
 | `kicker` | "9 days of …", up to 45 characters |
 | `card` | One sentence for the library card, up to 140 characters |
 | `description` | Meta description, up to 160 characters |
+| `ogDescription` | Link-preview description, under 125 characters: "9 days of prayer for …, through …" with short saint names |
 | `status` | `"draft"` (page builds, no library card) until the user approves, then `"published"` |
 | `order` | Position on the library page |
 | `epigraph`, `closingVerse` | RSV-CE text, up to about 25 words each: `{"text", "ref"}` |
@@ -68,7 +69,7 @@ Copy an example's shape. Field rules:
 | `litany[]` | `{"img", "text"}`, Marian title first. `img` is optional and points to `img/<img>_face.jpg` |
 | `openingPrayer` | 85–110 words. Addresses the Father, names the burden plainly, names each intercessor with a short role, ends "through Christ our Lord." The template adds "Amen." |
 | `closingPrayer` | 25–40 words, addressed to Jesus. The template adds "Amen." |
-| `tips` | Keep the "As a family" text from the examples word for word. "Alongside prayer" names the sacraments that fit (Confession, Mass, Anointing of the Sick…) and one prudent action for this intention, plus a warning against false shortcuts if relevant (loan sharks, "sure cures") |
+| `tips` | Keep the "Praying with others" text from the examples word for word. "Alongside prayer" names the sacraments that fit (Confession, Mass, Anointing of the Sick…) and one prudent action for this intention, plus a warning against false shortcuts if relevant (loan sharks, "sure cures") |
 | `icons` | 9 Phosphor "regular" icon names, one per day. They must exist in `tools/icons/`. Add new ones from `@phosphor-icons/core` (npm, assets/regular) |
 | `credits` | Image credits: artist, *title*, date, collection, then "Public domain, via Wikimedia Commons." |
 | `days[9]` | See below |
@@ -88,7 +89,7 @@ Each day has these fields:
 **Numbers:** in everything the reader scans (kickers, card text, headings, labels, tips, how-to text), write numbers as digits: "9 days", "Day 3", "10 minutes", "The 3 Intercessors". Prayers, reflections and steps, which are read aloud, keep words ("these nine days", "on this ninth day").
 
 **Voice and faith rules:**
-- Write in warm, plain US English, saying "we" for the family. Use the honorific capitals of the examples: You, Your, Him.
+- Write in warm, plain US English, saying "we". Keep the framing general: don't address the reader as a family or as praying alone (cards, kickers, previews). Use the honorific capitals of the examples: You, Your, Him.
 - **Never promise outcomes.** No "this novena never fails" and no prosperity-gospel framing. Ask boldly, then trust God's will. For healing, also pray for strength, peace, the doctors' skill and the caregivers, and for the grace to unite suffering with Christ. Say plainly that healing which doesn't come is never a sign of weak faith (CCC 1508), and keep the hope of eternal life in view.
 - When the person prayed for is unknown, write "N." and "them", and tell readers how to pray it for themselves.
 - Rotate the saints across the days so each gets about three days.
